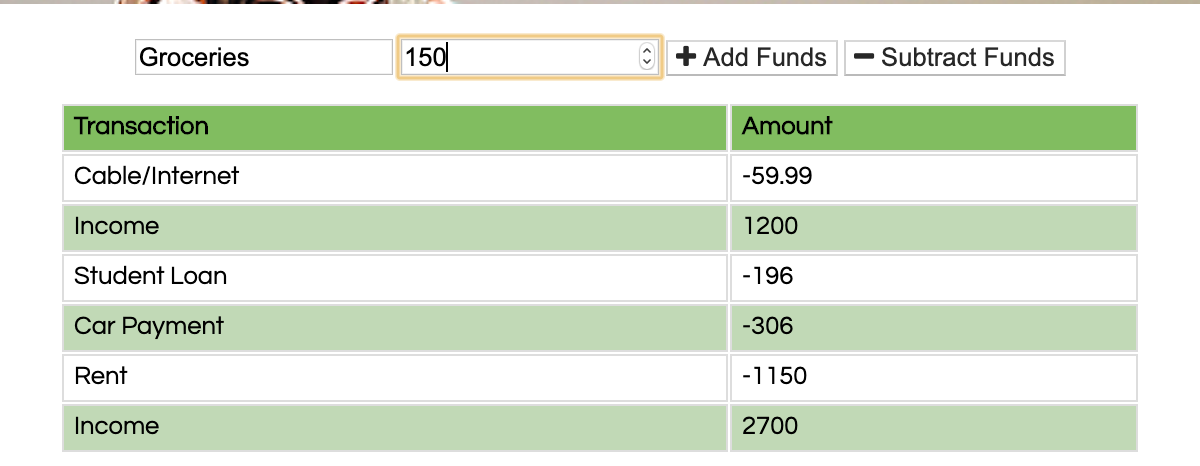
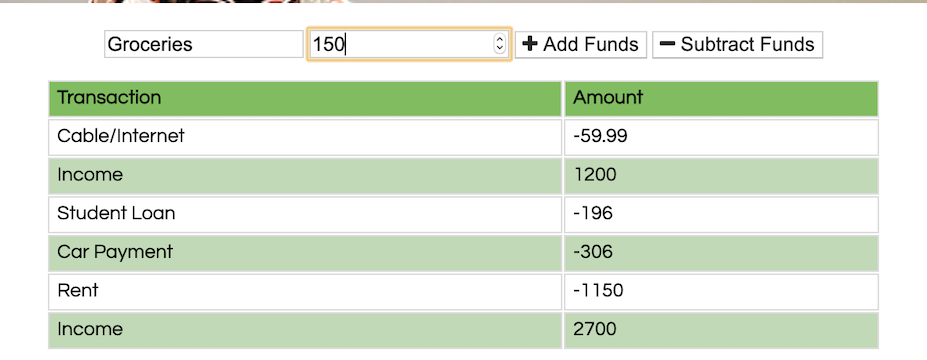
Resizing images

diff --git a/README.md b/README.md
@@ -4,7 +4,7 @@ A budget tracking application available for online and offline use!
 
 https://fast-ridge-93546.herokuapp.com/
 
-## User Story
+# User Story
 
 As a person who likes to save money, I want the ability to track my money, so that I can find out where my unnecessary spending lies.
 
@@ -12,25 +12,25 @@ As a person who likes to save money, I want the ability to track my money, so th
 
 Users of the Budget Tracker have the ability to add funds, remove funds, and view all incoming and outgoing funds in chart form.
 
-#### Main Interface
+### Main Interface
 
 ![Main View](./public/images/mainView.png)
 
 <hr>
 
-#### Add and Remove Funds
+### Add and Remove Funds
 
 ![Add View](./public/images/addView.png)
 
 <hr>
 
-#### View your overall funds data
+### View your overall funds data
 
 ![Chart View](./public/images/chart.png)
 
 <hr>
 
-## Technologies Used
+#### Technologies Used
 
 - Mongoose
 - MongoDB
@@ -41,7 +41,7 @@ Users of the Budget Tracker have the ability to add funds, remove funds, and vie
 - CSS
 - Javascript
 
-### Additional Styling Framework
+#### Additional Styling Framework
 
 - Bootstrap | https://getbootstrap.com/
 - Fontsawesome icons | https://fontawesome.com/icons?d=gallery&m=free
